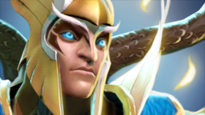
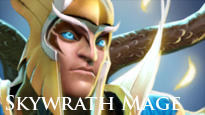
testin

Changed region(s): [[0.0293, 0.8087, 0.5561, 0.9652], [0.5854, 0.8348, 0.878, 0.9652]]

diff --git a/app.py b/app.py
@@ -7,7 +7,7 @@ from dotenv import load_dotenv
 import logging
 import requests
 import random
-from PIL import Image
+from PIL import Image, ImageDraw, ImageFont
 import asyncio
 
 
@@ -63,6 +63,7 @@ def get_hero_info():
 def get_hero_img(hero_data):
     img_name = hero_data['name'].replace('npc_dota_hero_', '') + "_lg.png"
     save_location = f"imagecache/{img_name}"
+    hero_name = hero_data['localized_name']
     if not exists(save_location):
         with open(save_location, 'wb') as handle:
             response = requests.get("http://cdn.dota2.com/apps/dota2/images/heroes/" + img_name, stream=True)
@@ -72,6 +73,13 @@ def get_hero_img(hero_data):
                 if not block:
                     break
                 handle.write(block)
+    portrait = Image.open(save_location)
+    W, H = portrait.size
+    padding = 4
+    draw = ImageDraw.Draw(portrait)
+    myFont = ImageFont.truetype("fonts/Trajan Pro Bold.ttf", 20)
+    draw.text((padding,H-20), hero_name, (255,255,255), font = myFont)
+    portrait.save(save_location)
     return save_location
 
 
@@ -113,7 +121,7 @@ async def on_message(message):
 
     if message.content.startswith('!wiggle'):
         currentPlayers = 0
-        maxPlayers = 3
+        maxPlayers = 1
         slotString = "Current Signups: " + str(currentPlayers) + "/" + str(maxPlayers) + "\n"
         embedVar=discord.Embed(
             title="Let's Get Ready to Street Dota!", description="Click the <:io:908114245806329886> to signup!",
@@ -127,11 +135,7 @@ async def on_message(message):
         while True:
             users = ""
             try:
-<<<<<<< HEAD
-                reaction, user= await client.wait_for("reaction_add", timeout=60)
-=======
                 reaction, user = await client.wait_for("reaction_add", timeout=60)
->>>>>>> 51f5447d71cd4f6d79c9fca0232f84104c5ad8d4
                 if str(reaction) == "<:io:908114245806329886>":
                     msg = await message.channel.fetch_message(msg.id)
                     for reactions in msg.reactions:
